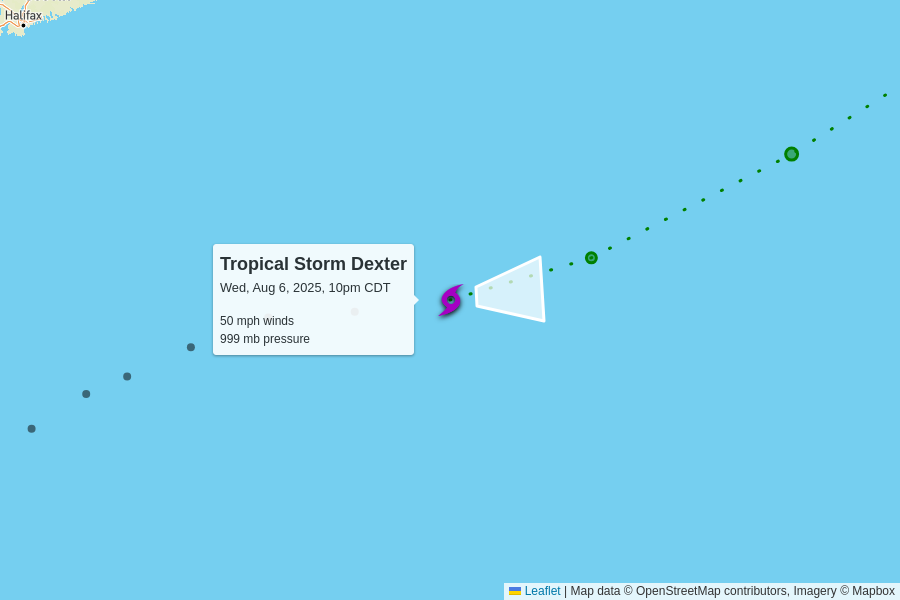
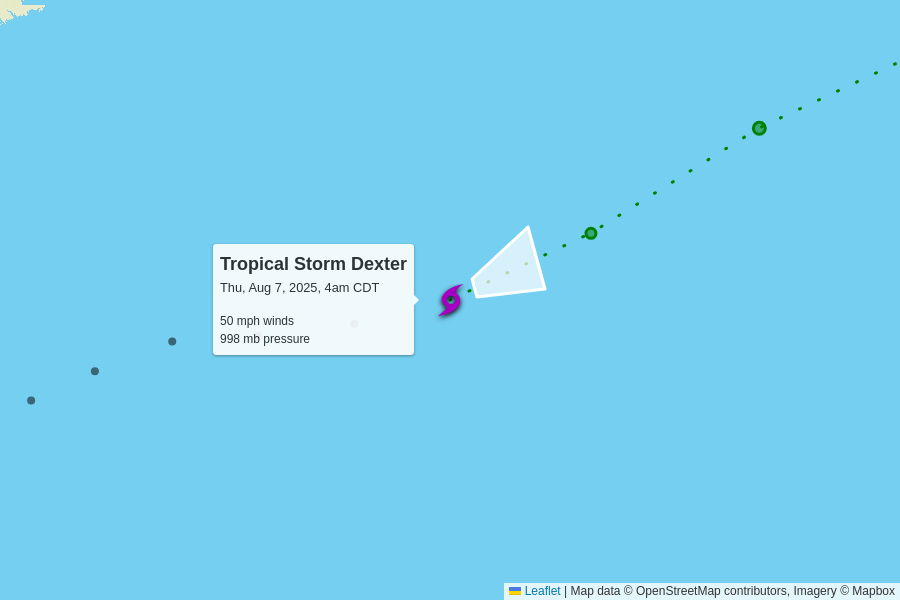
automatic update

diff --git a/docs/index.html b/docs/index.html
@@ -102,7 +102,7 @@
         <td colspan="6" class="storm category-0" >
           <h2>
             Tropical Storm Dexter
-            <p class="updated">last updated <span data-time>2025-08-07T03:00:00.000Z</span></p>
+            <p class="updated">last updated <span data-time>2025-08-07T09:00:00.000Z</span></p>
           </h2>
         </td>
       </tr>
@@ -118,11 +118,11 @@
       <tr>
         <td class="spacer"></td>
         <td>50 mph<br>0 mph since last update</td>
-        <td>999 mb<br>0 mb since last update</td>
+        <td>998 mb<br>-1 mb since last update</td>
         <td>
-          17 mph to the east
+          18 mph to the east-northeast
           <br/>
-          <span style="display: inline-block; font-size: 1.5em; transform: rotate(85deg);">↑</span>
+          <span style="display: inline-block; font-size: 1.5em; transform: rotate(70deg);">↑</span>
         </td>
         <td><a href="https://raw.githubusercontent.com/mgwalker/atlantic-hurricanes/main/data/csv/AL042025.csv">AL042025.csv</a></td>
         <td><a href="https://www.nhc.noaa.gov/archive/2025/DEXTER.shtml?">NHC advisories</a></td>
